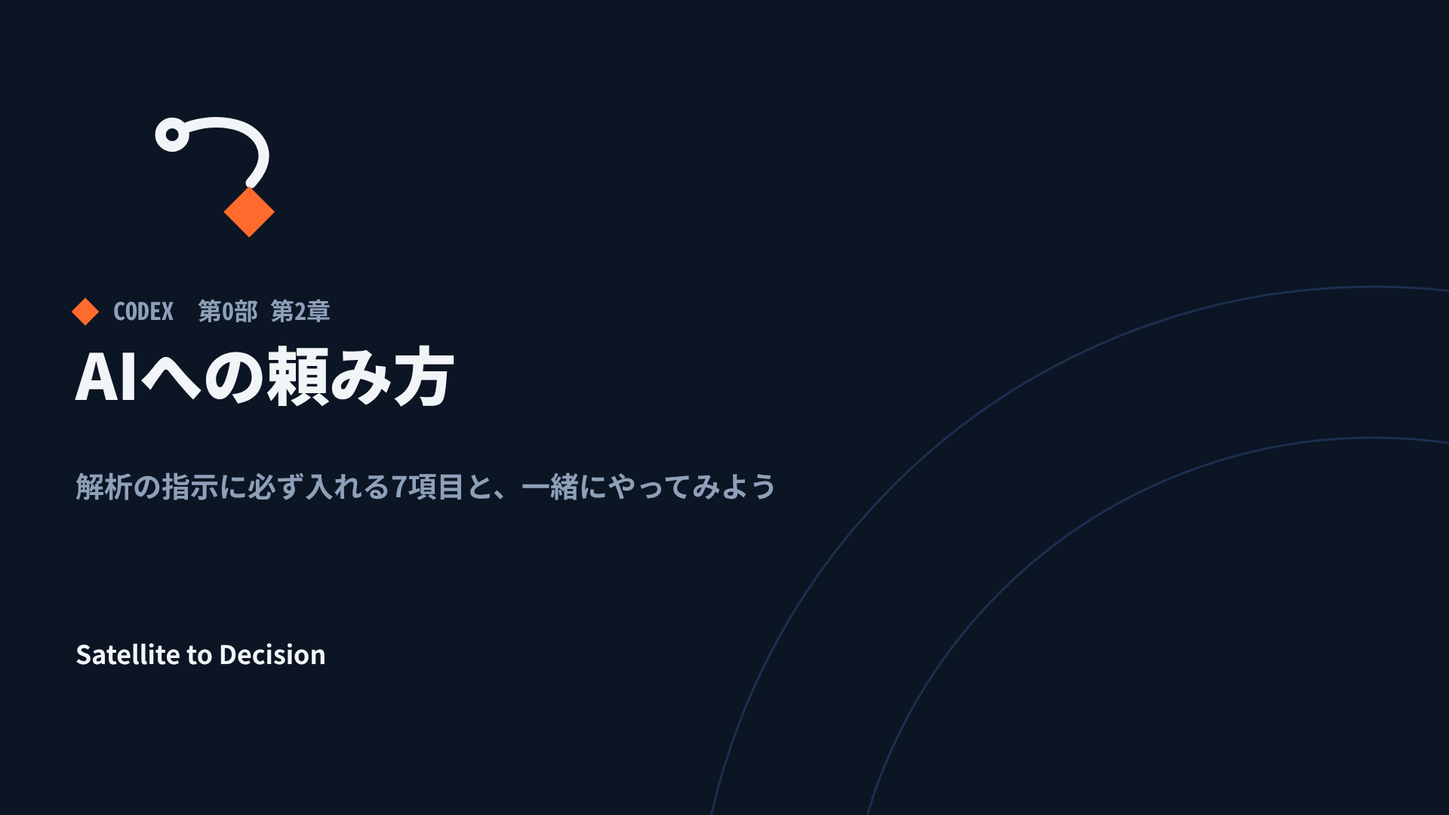
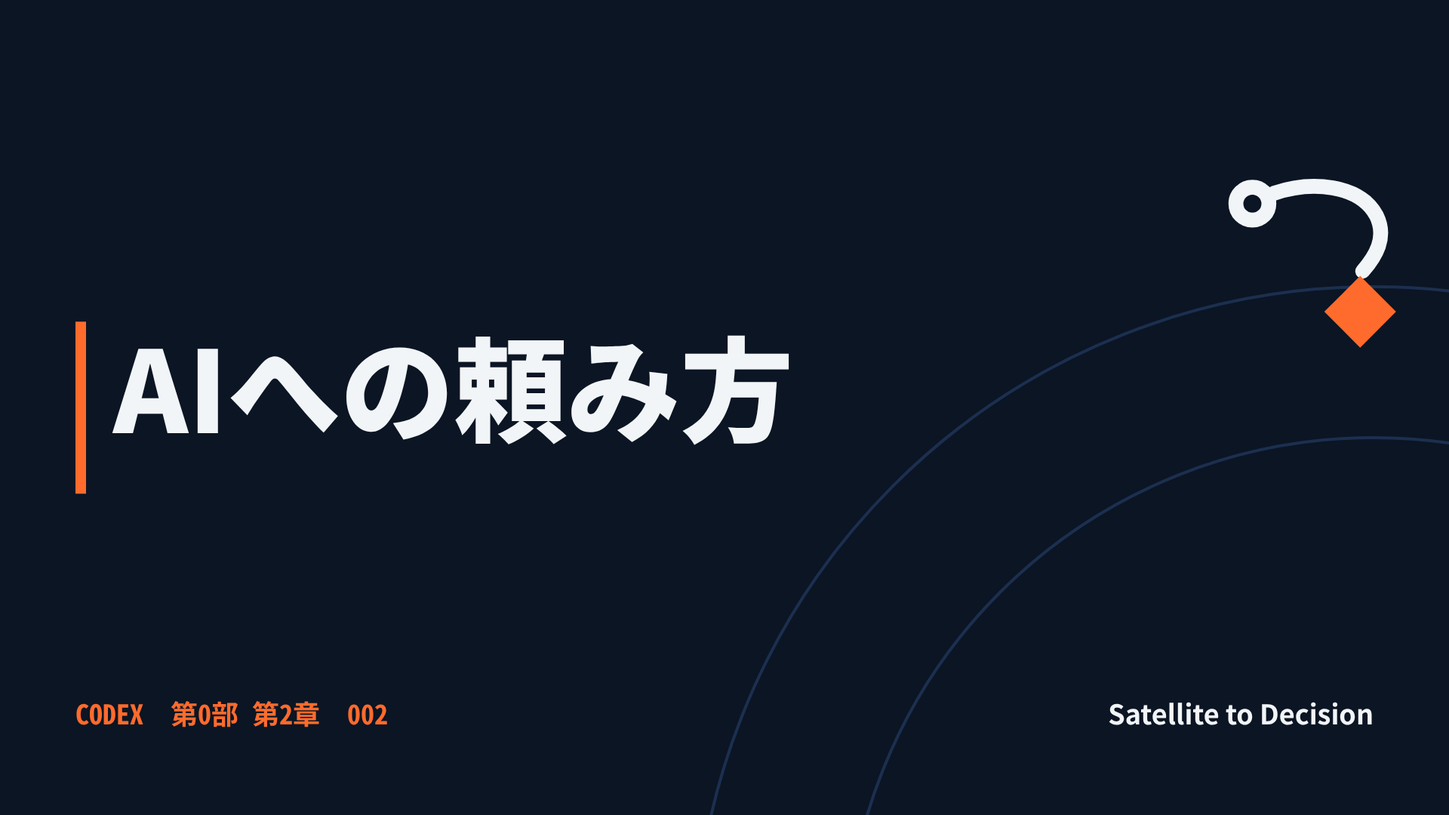
動画に、冒頭の問いと答え、呼びかけ1つ、通し番号、サウンドロゴ、説明欄と全文とサムネイルの自動作成を加える
Claude-Session: https://claude.ai/code/session_017ViywVp6X2ukdaLMTjKcaB

diff --git a/scripts/video.py b/scripts/video.py
@@ -136,7 +136,7 @@ def slide_cover(s, ctx):
             f'<circle cx="{W - 100}" cy="{H + 200}" r="900" fill="none" stroke="{LINE}" stroke-width="3"/>',
             logo(200, 150, 0.3),
             f'<rect x="100" y="400" width="26" height="26" fill="{ORANGE}" transform="rotate(45 113 413)"/>',
-            text(150, 424, ctx["series"] + "　" + ctx.get("kicker", ""), 32, SLATE, "bold", family=MONO),
+            text(150, 424, ctx["series"] + "　" + ctx.get("kicker", "") + (f"　{ctx['number']:03d} / {ctx['total']}" if ctx.get("number") else ""), 32, SLATE, "bold", family=MONO),
             text(100, 530, lines, size, WHITE, "900", lh=1.3)]
     if s.get("sub"):
         body.append(text(100, 530 + size * 1.3 * len(lines) + 20, wrap(s["sub"], 34)[:2], 38, SLATE, "bold", lh=1.4))
@@ -254,16 +254,19 @@ def slide_steps(s, ctx):
 
 
 def slide_cta(s, ctx):
+    """締めの画面。呼びかけは1つだけ（action と url）。"""
     lines = wrap(s.get("heading", ""), 20)[:2]
     body = [f'<circle cx="{W - 100}" cy="{H + 200}" r="700" fill="none" stroke="{LINE}" stroke-width="3"/>',
             text(100, 300, lines, 64, WHITE, "900", lh=1.3)]
-    y = 300 + 64 * 1.3 * len(lines) + 40
-    for item in s.get("items", []):
-        body.append(f'<rect x="104" y="{y - 28}" width="18" height="18" fill="{ORANGE}" transform="rotate(45 113 {y - 19})"/>')
-        body.append(text(150, y, wrap(item, 36)[:2], 36, WHITE, lh=1.4))
-        y += 36 * 1.4 * len(wrap(item, 36)[:2]) + 30
+    y = 300 + 64 * 1.3 * len(lines) + 60
+    if s.get("action"):
+        al = wrap(s["action"], 30)[:2]
+        bw = min(1400, int(44 * 0.98 * max(len(x) for x in al)) + 100)
+        body.append(f'<rect x="100" y="{y - 56}" width="{bw}" height="{44 * 1.4 * len(al) + 36:.0f}" rx="18" fill="{ORANGE}"/>')
+        body.append(text(150, y, al, 44, NAVY, "900", lh=1.4))
+        y += 44 * 1.4 * len(al) + 70
     if s.get("url"):
-        body.append(text(100, y + 30, s["url"], 32, ORANGE, "bold", family=MONO))
+        body.append(text(100, y, s["url"], 32, WHITE, "bold", family=MONO))
     if s.get("credits"):
         cy = H - 190 - 30 * len(s["credits"])
         body.append(text(100, cy, s["credits"], 22, SLATE, lh=1.4))
@@ -372,6 +375,18 @@ def synth(text_, out_wav, ctx):
     sw.write(str(out_wav), sr, x.astype(np.int16))
 
 
+def sound_logo(out, sr):
+    """2秒のサウンドロゴ。上がる2音（軌道の線のイメージ）と、短い締めの音（ひし形）。"""
+    t = np.arange(int(sr * 2.0)) / sr
+    def tone(f, start, dur, amp):
+        env = np.clip((t - start) / 0.02, 0, 1) * np.clip((start + dur - t) / (dur * 0.6), 0, 1)
+        return amp * env * (np.sin(2 * np.pi * f * t) + 0.3 * np.sin(2 * np.pi * 2 * f * t))
+    x = tone(523.25, 0.05, 0.5, 0.22) + tone(783.99, 0.38, 0.6, 0.22) + tone(1046.5, 0.78, 0.9, 0.18)
+    x = (x / max(1e-6, np.abs(x).max()) * 0.5 * 32767).astype(np.int16)
+    with wave.open(str(out), "wb") as w:
+        w.setnchannels(1); w.setsampwidth(2); w.setframerate(sr); w.writeframes(x.tobytes())
+
+
 def concat_wavs(wavs, gap, out):
     frames, sr, sw = [], None, None
     for p in wavs:
@@ -437,7 +452,7 @@ def build(vid, slides_only=False):
         return
     # 案内役の顔は、既定では出さない（口が動くだけの顔は学習の助けにならないため。台本に avatar: true で出せる）
     avatars = build_avatar_frames(work) if ctx.get("avatar") or any(sc.get("avatar") for sc in scenes) else None
-    parts = []
+    parts, scene_starts, scene_lengths = [], [], []
     for i, s in enumerate(scenes):
         say = s.get("say", "")
         sentences = split_sentences(say)
@@ -454,9 +469,14 @@ def build(vid, slides_only=False):
         lead = work / "lead.wav"
         with wave.open(str(wavs[0])) as w0:
             sr0, sw0 = w0.getframerate(), w0.getsampwidth()
-        with wave.open(str(lead), "wb") as w:
-            w.setnchannels(1); w.setsampwidth(sw0); w.setframerate(sr0); w.writeframes(b"\x00" * int(sr0 * 0.5) * sw0)
+        if i == 0:
+            sound_logo(lead, sr0)   # 最初の場面だけ、決まった音で始める
+        else:
+            with wave.open(str(lead), "wb") as w:
+                w.setnchannels(1); w.setsampwidth(sw0); w.setframerate(sr0); w.writeframes(b"\x00" * int(sr0 * 0.5) * sw0)
         concat_wavs([lead] + wavs, 0.35, audio)
+        scene_starts.append(sum(scene_lengths))
+        scene_lengths.append(wav_len(audio) + 0.4)
         total = wav_len(audio) + 0.4
         # 字幕
         ass = work / f"sub_{i:02d}.ass"
@@ -494,8 +514,54 @@ def build(vid, slides_only=False):
     final = vdir / f"{vid}.mp4"
     subprocess.run(["ffmpeg", "-y", "-loglevel", "error", "-f", "concat", "-safe", "0", "-i", lst.name, "-c", "copy", str(final.resolve())],
                    cwd=work, check=True)
-    shutil.copy(work / "slide_00.png", vdir / "thumbnail.png")
+    write_companions(vid, vdir, ctx, scenes, scene_starts, body_idx, agenda, work)
     print(f"できました：{final.relative_to(ROOT)}（{wav_len_mp4(final):.0f}秒）")
+
+
+def hms(t):
+    m, sec = divmod(int(t), 60)
+    h, m = divmod(m, 60)
+    return f"{h}:{m:02d}:{sec:02d}" if h else f"{m}:{sec:02d}"
+
+
+def write_companions(vid, vdir, ctx, scenes, starts, body_idx, agenda, work):
+    """動画と一緒に使うもの：説明欄（章立て、リンク、表記）、全文、サムネイル。"""
+    site = yaml.safe_load((ROOT / "_variables.yml").read_text(encoding="utf-8"))["site"]
+    cta = next((sc for sc in scenes if sc["kind"] == "cta"), {})
+    link = cta.get("url_full") or cta.get("url", "")
+    if link and "utm_" not in link:
+        link = ("https://" if not link.startswith("http") else "") + link + ("&" if "?" in link else "?") + f"utm_source=youtube&utm_medium=video&utm_campaign={vid}"
+    chapters = [f"{hms(starts[i])} {scenes[i].get('heading') or ctx['title']}" for i in range(len(scenes))]
+    desc = [ctx["title"], ""]
+    if ctx.get("summary"):
+        desc += [ctx["summary"], ""]
+    if cta.get("action"):
+        desc += [f"▶ {cta['action']}", link, ""]
+    desc += ["■ 章立て"] + chapters + [""]
+    if cta.get("credits"):
+        desc += ["■ 出典と表記"] + cta["credits"] + [""]
+    desc += ["Satellite to Decision ｜ 地球観測データを、事業の意思決定へ。", "どの衛星会社にも解析会社にも属さない立場で作っています。"]
+    (vdir / "description.txt").write_text("\n".join(desc) + "\n", encoding="utf-8")
+    tr = [f"# {ctx['title']}", "", "動画の全文です。", ""]
+    for sc in scenes:
+        if sc.get("heading") and sc["kind"] not in ("cover",):
+            tr.append(f"## {sc['heading']}\n")
+        tr.append(sc.get("say", "").strip() + "\n")
+    (vdir / "transcript.md").write_text("\n".join(tr), encoding="utf-8")
+    # サムネイル：短い文（4語以内）を大きく
+    thumb = ctx.get("thumb") or ctx["title"]
+    lines = wrap(thumb, 10)[:2]
+    size = 150 if len(lines) == 1 else 120
+    body = [f'<rect width="{W}" height="{H}" fill="{NAVY}"/>',
+            f'<circle cx="{W - 100}" cy="{H + 200}" r="700" fill="none" stroke="{LINE}" stroke-width="4"/>',
+            f'<circle cx="{W - 100}" cy="{H + 200}" r="900" fill="none" stroke="{LINE}" stroke-width="4"/>',
+            logo(1620, 230, 0.42),
+            f'<rect x="100" y="150" width="14" height="{size * 1.25 * len(lines) + 40:.0f}" fill="{ORANGE}" transform="translate(0,{H/2 - size * 1.25 * len(lines) / 2 - 20 - 150})"/>',
+            text(150, H / 2 - size * 1.25 * len(lines) / 2 + size * 0.85, lines, size, WHITE, "900", lh=1.25),
+            text(100, H - 120, ctx["series"] + ("　" + ctx.get("kicker", "")) + (f"　{ctx['number']:03d}" if ctx.get("number") else ""), 36, ORANGE, "bold", family=MONO),
+            text(W - 100, H - 120, "Satellite to Decision", 36, WHITE, "bold", anchor="end")]
+    svg = (f'<svg xmlns="http://www.w3.org/2000/svg" viewBox="0 0 {W} {H}" width="{W}" height="{H}" font-family="{FONT}">{"".join(body)}</svg>')
+    svg_to_png(svg, vdir / "thumbnail.png")
 
 
 def wav_len_mp4(p):

diff --git a/video/codex-0-2-prompting/transcript.md b/video/codex-0-2-prompting/transcript.md
@@ -1,0 +1,57 @@
+# AIへの頼み方
+
+動画の全文です。
+
+AIに「衛星画像で農地の生育を調べて」と頼むと、何が起きるでしょうか。コードは返ってきますが、どの衛星か、いつの画像か、何で測るかは、AIが勝手に決めます。答えは、指示に7つの項目を入れることです。この章では、その7項目と、AIが書いたコードを3つの観点で確かめる方法を、一緒にやってみます。最後に宿題があります。
+
+## この章でできるようになること
+
+この章を終えると、4つのことができるようになります。解析の指示に必ず入れる7つの項目を書けること。あいまいな指示と良い指示の違いを説明できること。AIが書いたコードを3つの観点で確かめられること。そして、自分の地域の課題で同じ手順を繰り返せることです。
+
+## 役割の分担
+
+まず、役割の分担です。AIに任せるのは、コードを書く、直す、説明すること。人が決めるのは、問い、データ、条件、そして何をもって合格とするかです。人が確かめるのは、コード、結果、そしてそこから言えることです。AIは、自信のある口調で間違えます。だから、確かめる手順を先に決めておきます。
+
+## 指示に必ず入れる7項目
+
+指示に必ず入れる項目は7つです。1つ目、目的。何を判断したいか。2つ目、場所。範囲をどう指定するか。3つ目、期間。4つ目、使う衛星と、データの処理の段階。5つ目、手順。使う指数、比較の方法、基準の値。6つ目、出力。地図か表か、単位は何か。7つ目、確かめ方。途中の値を表示させることや、答えの分かる場所で試すことを、最初から指示に入れます。
+
+## あいまいな指示の例
+
+あいまいな指示の例です。衛星画像で、うちの市の農地の生育状況を調べるコードを書いて。これでもAIはコードを返します。ただし、どの衛星か、いつの画像か、生育状況を何で測るか、結果をどう出すかは、すべてAIが勝手に決めます。その決め方は、たいてい説明されません。
+
+## 直した指示の例
+
+直した指示の例です。目的は、農地の区画ごとに夏の植生の指数を前年と比べ、下がった区画を拾うこと。場所は、添付の区画データ。期間は、2025年と2024年の7月から8月。データは、Sentinel-2の地表反射率で、雲と雲の影は分類のデータで除く。手順は、画素の値を反射率に直してからNDVIを計算し、期間の中央値を区画ごとに平均する。出力は、区画ごとの表。確かめ方は、値の範囲と、雲を除いた画素の割合を表示し、水面の区画で値が低いことを確かめる。7項目がそろっています。
+
+## 一緒にやってみよう
+
+ここからは、一緒にやってみましょう。課題は小さくします。赤と近赤外の画素の値から、NDVIを計算する関数をAIに書いてもらいます。データは、Sentinel-2のLevel-2Aの画素の値と、雲などを分類したデータです。見る観点は3つ。値の直し方、雲の扱い、割り算の分母です。
+
+## AIが書いた最初のコード
+
+AIが書いた最初のコードです。短くて、一見正しく見えます。しかし、レビューの観点を当てると、3つの問題があります。1つ目、画素の値をそのまま使っていて、反射率に直していません。2つ目、雲と雲の影を除いていません。3つ目、分母が0になる画素で、エラーか無限大が出ます。どれも、AIに「衛星データならでは」の前提を伝えていないために起きます。
+
+## レビューの観点を当てる
+
+共通のレビュー観点の表で確かめます。値の倍率。画素の値を、決まった倍率とずらしで反射率に直しているか。このコードは直していません。雲と影。除いていません。欠けた値。分母が0の画素の扱いが書かれていません。実在するかどうか。使っているのはnumpyだけなので、ここは問題ありません。問題が3つ見つかったので、AIに直してもらいます。直し方を自分で書く必要はありません。何が問題かを伝えれば十分です。
+
+## 直したコード
+
+直したコードです。4行目と5行目で、画素の値を反射率に直しています。倍率とずらしの値は、AIの答えをそのまま信じず、データの公式の説明で確かめます。6行目で、雲の影、雲、巻雲、雪の分類の番号を除いています。この番号も公式の説明で確かめます。8行目で、分母が0の画素を値なしにしています。9行目で、雲の画素を値なしにしています。値なしを0や平均で埋めないことが大切です。埋めると、雲が「生育不良」として集計されてしまいます。
+
+## 結果の目視レビュー
+
+最後に、結果を目で確かめます。答えの分かる値を入れて試します。茂った植物に相当する画素では、最初のコードは0.58、直したコードは0.89になりました。倍率とずらしを直すだけで、値がこれだけ変わります。両方の値が0の画素では、最初のコードは警告を出し、直したコードは値なしを返します。雲と分類された画素は、最初のコードではそのまま計算され、直したコードでは値なしになります。値の範囲は、どちらもマイナス1から1に収まっています。このように、答えの分かる値で試すことを、指示の確かめ方に最初から入れておきます。
+
+## 手順のまとめ
+
+手順をまとめます。1、7項目をそろえた指示を書く。2、AIにコードを書かせ、1行ずつ説明させる。3、共通のレビュー観点を上から当て、問題を書き出す。4、問題を伝えて、AIに直させる。5、答えの分かる値や場所で試し、結果を目で確かめる。6、使ったデータ、条件、指示文を記録に残す。この6つを、どの解析でも繰り返します。
+
+## 宿題
+
+宿題です。1つ目、自分の地域の農地か森林を1か所選び、夏の植生の指数を前年と比べる指示文を、7項目で書いてください。2つ目、AIにNDVIを計算するコードを書かせ、レビュー観点の表を上から当てて、問題を3つ以上書き出してください。3つ目、問題を伝えて直させ、答えの分かる値で試した結果を表にまとめてください。次の章では、コードの読み方とレビューの基本を扱います。
+
+## 宿題を出したら、次の章へ
+
+共通のレビュー観点の一覧と、この章のケース問題は、説明欄のリンクから、サイトの学習プログラムで読めます。宿題の答え合わせも、そこでできます。ご視聴ありがとうございました。

diff --git a/video/usecase-chusankan-patrol/transcript.md b/video/usecase-chusankan-patrol/transcript.md
@@ -1,0 +1,41 @@
+# 中山間地の見回りを衛星で減らす
+
+動画の全文です。
+
+数千筆の農地を、全部見て回らずに済む方法はあるか。答えは、衛星で「見に行かなくてよい農地」を先に外すことです。佐賀県伊万里市は、この方法で現地の見回りを約半分に減らしました。この動画では、誰が、業務のどこに入れて、何を決める材料にしているのか。無償の衛星でどこまでできて、有償の画像を使うといくらかかるのかまでを、6分で見ていきます。
+
+## どこで、誰が、何のために
+
+事例の舞台は、日本の佐賀県伊万里市です。発注するのは市の農政の担当者、解析するのは地場の企業です。目的は、中山間地域等直接支払という制度で、対象の農地が実際に耕作、管理されているかを確かめることです。対象が数千筆になると、職員が全部を見て回る負担が大きくなります。そこで、見に行かなくてよい農地を衛星で先に外す、という使い方をしています。
+
+## 業務の流れの、どこに入るか
+
+業務の流れを見ます。入る位置は、見回りの計画を立てる前です。まず、市が農地の区画の地図データを企業に渡します。企業は、農林水産省のマニュアルに沿って衛星データを解析し、農地を4段階に色分けした地図を納品します。市は、調査不要と判定された農地を計画から外し、残りを見回ります。最後に、不要と判定された農地の数パーセントを抜き取りで見回り、判定が合っているかを確かめます。つまり、衛星は見回りの代わりではなく、見に行く順番と範囲を決める道具です。
+
+## 衛星に任せることと、人が行うこと
+
+役割の分担はこうなります。衛星の解析が行うのは、農地を4段階に色分けすることと、見回り不要の農地を外すことです。職員が行うのは、要確認の農地を見回ること、抜き取りで精度を確かめること、そして集落に説明することです。伊万里市では、本導入の前に1年間の実証を行い、現地の見回りは約4,000筆、約50パーセント減りました。実証ではなく、業務として運用されている事例です。
+
+## 何を決める材料になるか
+
+受け取るデータと、それで決められることを整理します。農地ごとの4段階の色分けは、どの農地を見回り、どの農地を省くかの根拠になります。耕作放棄地と判定された一覧は、先に現地を確かめる場所と、集落との話し合いの対象になります。解析対象外の一覧は、衛星では判定できず、従来どおり見回る農地の数を示します。そして抜き取りの結果が、来年も同じ方法を続けてよいかの判断材料になります。解析対象外と要調査の合計が、見回りの残る量です。導入の前に小さな範囲でこの割合を出しておくと、効果を見積もれます。
+
+## 2026年時点の限界
+
+限界も、資料にはっきり書かれています。1つ目、小さな区画は解析できません。衛星の画素より小さい農地は、周りの土地と混ざって見えるためです。2つ目、狭い農地が多い集落では、見回りの要る農地が多く残り、効果が小さくなります。3つ目、分かるのは耕作や管理の有無までで、作物の種類や活動の中身は分かりません。4つ目、衛星だけで確認を終えてはいません。抜き取りの見回りは、本導入の後も続いています。
+
+## 無償の衛星で、どこまでできるか
+
+では、無償の衛星でどこまでできるでしょうか。欧州のSentinel-2は無償で、10メートルの画素、2機で赤道付近なら5日ごとに撮っています。作付けや管理の有無は、植物の元気さを表す指数の季節の変化から読めます。データの費用は0円です。一方で、10メートルの画素では小さな区画や細長い区画は判定しにくく、解析対象外が増えます。雲で使えない日もあります。なお、この事例の資料には使った衛星の種類は書かれていないので、無償データで同じ結果が出るとは言えません。
+
+## 有償の画像を使うと、いくらか（概算）
+
+有償の画像を使う場合の概算です。これは仮定を置いた計算で、見積もりではありません。3メートル級の光学画像のアーカイブに、1平方キロあたり1.80米ドル、最小発注250平方キロという公開価格があります。2022年12月の公開記事の値です。対象の農地を含む範囲が最小発注量に収まると仮定し、年2回解析すると、画像代は900ドル。1ドル150円なら、年に約13.5万円です。年4回なら約27万円になります。これに、解析の委託費が別にかかります。伊万里市の例は、解析を含めて年50万円前後でした。価格は変わるので、実際の金額は必ず見積もりで確かめてください。
+
+## 向いている条件、向いていない条件
+
+最後に、向き不向きです。向いているのは、まとまった広さの農地が多く、対象が数千筆以上で、区画の地図データが整っている自治体です。確かめたいことが、耕作、管理の有無であることも条件です。逆に、狭い農地が多い、数百筆で見て回れる、紙の台帳しかない、作物の種類まで知りたい、衛星の判定だけで終えたい、という場合は向きません。提案するときは、最初に農地の大きさの分布を聞くこと、見回りがなくなるとは言わないこと、財源とセットで話すことが要点です。
+
+## 自分の地域で検討する方へ
+
+この事例をもとに、自分の地域や顧客に合わせて検討したい方へ。仕様書、いわゆるRFPの作成と、相見積もりの取り方をお手伝いします。どの衛星会社にも解析会社にも属さない立場で、条件の整理と比較をします。説明欄のリンクから、相談フォームへどうぞ。ご視聴ありがとうございました。

diff --git a/patterns/outputs/video.md b/patterns/outputs/video.md
@@ -1,0 +1,26 @@
+# 出力の型：動画（講義、ユースケース解説）
+
+台本は `video/<id>/script.yaml`。`python scripts/video.py <id>` で、動画（mp4）、説明欄（description.txt）、全文（transcript.md）、サムネイル（thumbnail.png）ができる。動画ファイルはリポジトリに置かない。
+
+## 2種類
+
+| 種類 | id | 元になる記事 | 長さ | 場面の並び |
+|---|---|---|---|---|
+| ユースケース解説 | `usecase-<slug>` | `casebook/<slug>.qmd` | 4〜6分 | 表紙 → どこで誰が何のために → 業務の流れのどこに入るか → 衛星と人の分担 → 何を決める材料になるか → 限界 → 無償衛星でどこまで → 有償画像の概算 → 向き不向き → 締め |
+| 講義 | `codex-<章のid>` | 解析教材の章 | 8〜15分 | 表紙 → できるようになること → 本文の節 → 一緒にやってみよう → 手順のまとめ → 宿題 → 締め |
+
+## 守ること（根拠は、視聴の継続と記憶に関する研究。詳しくは会話の記録）
+
+1. **冒頭10秒で、問いと答えの要点を言う**。表紙の `say` は「〜はあるか。答えは〜です。」で始める。シリーズ名や挨拶から始めない
+2. **呼びかけは1本に1つ**。締め（`cta`）には `action`（1文）と `url` を1つだけ書く。ユースケース解説はRFPと相見積もりの相談、講義はサイトの章ページ
+3. **通し番号**。`number` と `total` を書く（ユースケースは `data/usecases.yaml` の順番と221、講義は章の番号と30）
+4. **サムネイルの文字は4語以内**。`thumb` に10字以内の短い文を書く
+5. **全文と章立ては自動でできる**。`transcript.md` を記事のページに「動画の全文」として載せる。`description.txt` を投稿の説明欄に貼る
+6. **サウンドロゴ**は最初の場面に自動で入る。消さない
+7. **数字と事例は、元の記事にあるものだけ**。記事にない数字を台本で足さない。有償画像の概算は「仮定：」を付け、公開価格の出どころと日付を `credits` に書く
+8. **声**は `video/voices.yaml` の名前で指定する。シリーズごとに固定する（ランダムにしない）。表記は自動で末尾に入る
+9. できた動画を開いて、最初の場面、コードの場面、締めの場面を見て、文字のはみ出しと字幕の切れがないか確かめる
+
+## 場面の種類
+
+cover、bullets、figure、table、code、prompt、steps、cta。項目は `scripts/video.py` の各関数を参照。
